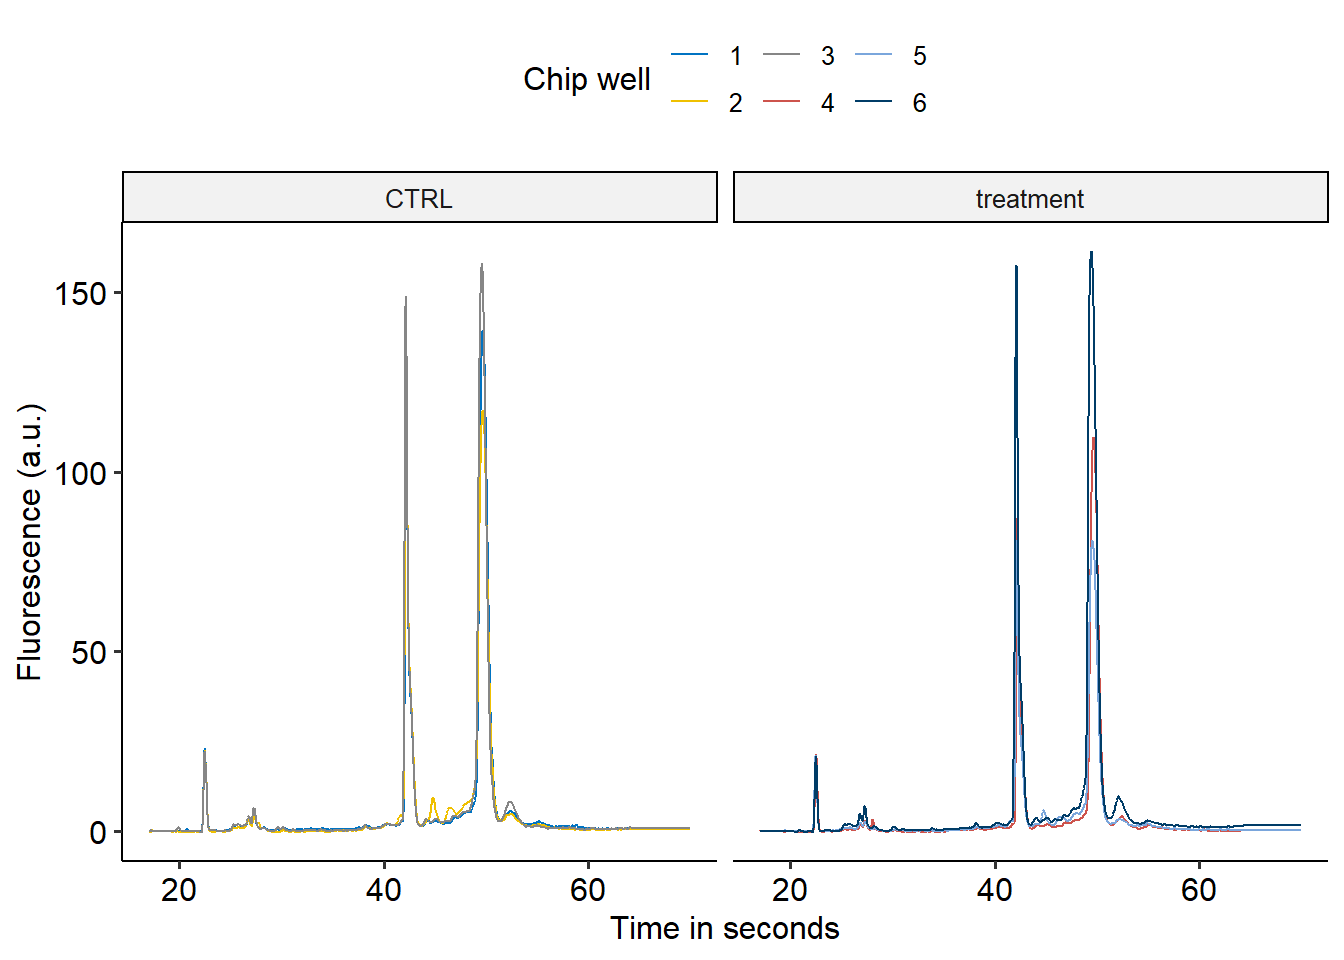
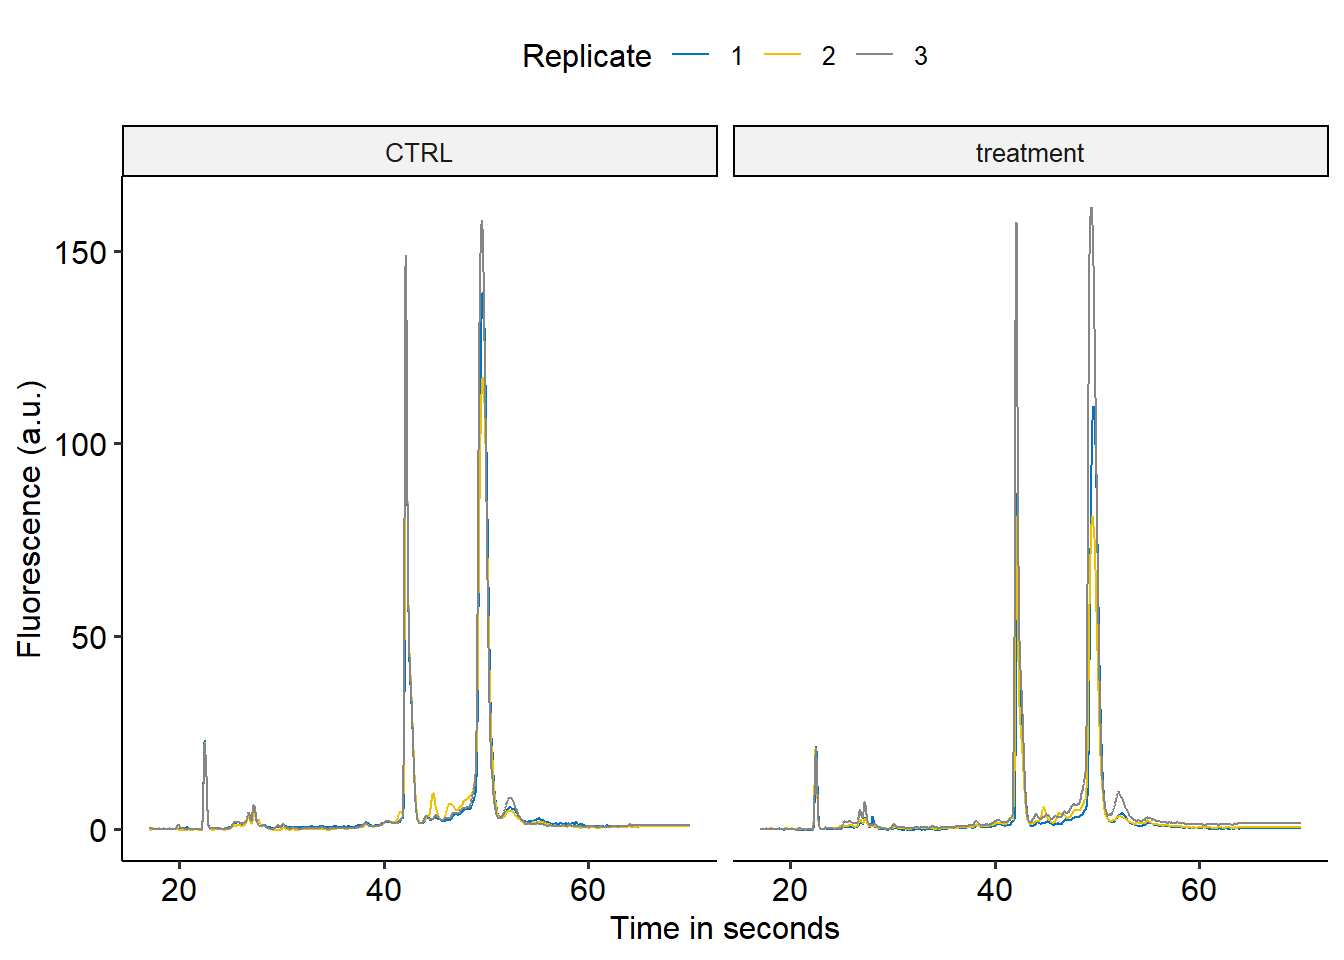
further bioanalyzer post editing

diff --git a/content/post/2021-01-06-quick-costum-bioanalyzer-plots-using-r.html b/content/post/2021-01-06-quick-costum-bioanalyzer-plots-using-r.html
@@ -8,6 +8,7 @@ categories:
 tags:
   - r
   - Tidyverse
+  - bioanalyzer
 subtitle: ''
 summary: ''
 authors: []
@@ -22,11 +23,11 @@ projects: []
 
 
 
-<p>The default plots made by the bioanalyzer are, in my opinion, not amazing. For one, the lines are really thin. Furthermore, sometimes to compare different samples, it would be nice to draw two traces is the same plot. Luckily, the bioanalyzer software also lets you export the raw data. This short post will show how to quickly get bioanalyzer trace data into R and ready for plotting.</p>
+<p>The default plots made by the bioanalyzer are, in my opinion, not amazing. For one, the lines are really thin. Furthermore, it would be nice to draw two traces is the same plot, to compare different samples. Luckily, the bioanalyzer software lets you export the raw data. This short post will show how to quickly get bioanalyzer trace data into R and ready for plotting.</p>
 <p>On the way we will make use of the tidyverse packages.</p>
 <pre class="r"><code>library(tidyverse)</code></pre>
 <div id="importing-one-file-into-r" class="section level2">
-<h2>Importing one file into r</h2>
+<h2>Importing one file into R</h2>
 <p>You can get the raw data out of the bioanalyzer by going File &gt; Export. Somewhat depending on the options you select next, it will spit out many different files:</p>
 <pre class="r"><code>list.files(path = &quot;./20210106data&quot;)</code></pre>
 <pre><code>##  [1] &quot;2100 expert_Eukaryote Total RNA Nano_DE13805377_2020-05-25_11-42-52.xml&quot;            
@@ -46,9 +47,9 @@ projects: []
 ## [15] &quot;2100 expert_Eukaryote Total RNA Nano_DE13805377_2020-05-25_11-42-52_Sample4.csv&quot;    
 ## [16] &quot;2100 expert_Eukaryote Total RNA Nano_DE13805377_2020-05-25_11-42-52_Sample5.csv&quot;    
 ## [17] &quot;2100 expert_Eukaryote Total RNA Nano_DE13805377_2020-05-25_11-42-52_Sample6.csv&quot;</code></pre>
-<p>Annoyingly, the raw data for each well of the bioanalyzer chip is found in a separate csv file. Manually pasting these together in excel is too much clicking, and more importantly error prone. Depending on your location, excel may see the comma as the thousand separator, which makes converting the csv file into excel columns with Data &gt; Text to Columns go wrong for some rows (specifically those with a round number for time and high fluorescence, like 40,123). Importing the csv files into r will not run into this problem.</p>
-<p>I generally start out by creating an r project in the folder containing the bioanalyzer data. Among other things, this avoids having to set the working directory.</p>
-<p>The next step is to separate the csv files containing the raw data from the rest. Luckily, they always end in “Sample” + the well number + “.csv” (at least for RNA nano and pico chips). We can use this pattern to isolate them, by creating a regular expression and feeding this pattern to <code>list.files()</code>. We are not interested in what comes before Sample, so we can preface Sample with the * symbol. This means zero or more of anything can occur. Sample is always followed by one or more digits. We tell the function to look for a digit using \\d and + to allow for one or more them. Finally, all these files should end in .csv. The dollar sign signifies that the string should end there.</p>
+<p>Annoyingly, the raw data for each well of the bioanalyzer chip is found in a separate csv file. Manually pasting these together in excel is too much clicking, and more importantly error prone. Depending on your location, excel may see the comma as the thousand separator, which makes converting the csv file into excel columns with Data &gt; Text to Columns go wrong for some rows (specifically those with a round number for time and high fluorescence, like 40,123). Importing the csv files into R will not run into this problem.</p>
+<p>I generally start out by creating an R project in the folder containing the bioanalyzer data. Among other things, this avoids having to set the working directory.</p>
+<p>The next step is to separate the csv files containing the raw data from the rest. Luckily, they always end in “Sample” + the well number + “.csv” (at least for RNA nano and pico chips). We can use this pattern to isolate them, by creating a regular expression and feeding this pattern to <code>list.files()</code>. We are not interested in what comes before Sample, so we can preface Sample with the * symbol. This means zero or more of anything can occur. Sample is always followed by one or more digits. We tell the function to look for a digit using \\d and use + to allow for one or more them. Finally, all these files should end in .csv. The dollar sign signifies that the string should end there.</p>
 <pre class="r"><code># Ignore the path = , this is only here because of how the website is structured. 
 # If you have made an r project inside the folder containing the bioanalyzer 
 # data you won&#39;t need it. 
@@ -213,15 +214,19 @@ sample2 &lt;- read_csv(paste0(path, samples[3]),
                     n_max = 1060)
 # Etc. </code></pre>
 <p>Instead, we can use a single <code>for</code> loop to import all the data files. In this loop we also save them into one big data table. We will use <code>mutate</code> to make a new column that contains the well number each measurement originates from. <code>str_extract</code> is used to extract this information from the file name.</p>
-<pre class="r"><code>all_data &lt;- tibble()
+<pre class="r"><code># Create an empty table to save the data in.
+all_data &lt;- tibble()
 
 for(i in samples){
+  # Import one by one
   data &lt;- read_csv(paste0(path, i), 
                    skip = 17, 
                    n_max = 1060)
   
+  # Add the well number information
   data &lt;- mutate(data, sample_nr = str_extract(i, pattern = &quot;Sample\\d+&quot;))
   
+  # Store in the big table
   all_data &lt;- rbind(all_data, data)
 }</code></pre>
 <table>
@@ -343,32 +348,39 @@ Again <code>str_extract</code> can help use remove all the unwanted symbols. Eve
 <tr class="header">
 <th align="right">sample_nr</th>
 <th align="left">treatment</th>
+<th align="right">replicate</th>
 </tr>
 </thead>
 <tbody>
 <tr class="odd">
 <td align="right">1</td>
 <td align="left">CTRL</td>
+<td align="right">1</td>
 </tr>
 <tr class="even">
 <td align="right">2</td>
 <td align="left">CTRL</td>
+<td align="right">2</td>
 </tr>
 <tr class="odd">
 <td align="right">3</td>
 <td align="left">CTRL</td>
+<td align="right">3</td>
 </tr>
 <tr class="even">
 <td align="right">4</td>
 <td align="left">treatment</td>
+<td align="right">1</td>
 </tr>
 <tr class="odd">
 <td align="right">5</td>
 <td align="left">treatment</td>
+<td align="right">2</td>
 </tr>
 <tr class="even">
 <td align="right">6</td>
 <td align="left">treatment</td>
+<td align="right">3</td>
 </tr>
 </tbody>
 </table>
@@ -383,6 +395,7 @@ Again <code>str_extract</code> can help use remove all the unwanted symbols. Eve
 <th align="right">Value</th>
 <th align="right">sample_nr</th>
 <th align="left">treatment</th>
+<th align="right">replicate</th>
 </tr>
 </thead>
 <tbody>
@@ -391,48 +404,56 @@ Again <code>str_extract</code> can help use remove all the unwanted symbols. Eve
 <td align="right">0.0165780</td>
 <td align="right">1</td>
 <td align="left">CTRL</td>
+<td align="right">1</td>
 </tr>
 <tr class="even">
 <td align="right">17.05</td>
 <td align="right">0.0247496</td>
 <td align="right">1</td>
 <td align="left">CTRL</td>
+<td align="right">1</td>
 </tr>
 <tr class="odd">
 <td align="right">17.10</td>
 <td align="right">0.0391493</td>
 <td align="right">1</td>
 <td align="left">CTRL</td>
+<td align="right">1</td>
 </tr>
 <tr class="even">
 <td align="right">17.15</td>
 <td align="right">0.0626396</td>
 <td align="right">1</td>
 <td align="left">CTRL</td>
+<td align="right">1</td>
 </tr>
 <tr class="odd">
 <td align="right">17.20</td>
 <td align="right">0.0790722</td>
 <td align="right">1</td>
 <td align="left">CTRL</td>
+<td align="right">1</td>
 </tr>
 <tr class="even">
 <td align="right">17.25</td>
 <td align="right">0.0928879</td>
 <td align="right">1</td>
 <td align="left">CTRL</td>
+<td align="right">1</td>
 </tr>
 <tr class="odd">
 <td align="right">17.30</td>
 <td align="right">0.0869223</td>
 <td align="right">1</td>
 <td align="left">CTRL</td>
+<td align="right">1</td>
 </tr>
 <tr class="even">
 <td align="right">17.35</td>
 <td align="right">0.0712983</td>
 <td align="right">1</td>
 <td align="left">CTRL</td>
+<td align="right">1</td>
 </tr>
 </tbody>
 </table>
@@ -446,11 +467,11 @@ Again <code>str_extract</code> can help use remove all the unwanted symbols. Eve
 library(ggsci)
 
 all_data %&gt;%
-  ggplot(aes(x = Time, y = Value, color = as.character(sample_nr)))+
+  ggplot(aes(x = Time, y = Value, color = as.factor(replicate)))+
     geom_line()+
     facet_grid(cols = vars(treatment))+
     scale_x_continuous(breaks = c(20, 40, 60))+
-    scale_color_jco(name = &quot;Chip well&quot;)+
+    scale_color_jco(name = &quot;Replicate&quot;)+
     theme_pubr()+
     labs(x = &quot;Time in seconds&quot;,
          y = &quot;Fluorescence (a.u.)&quot;)</code></pre>
